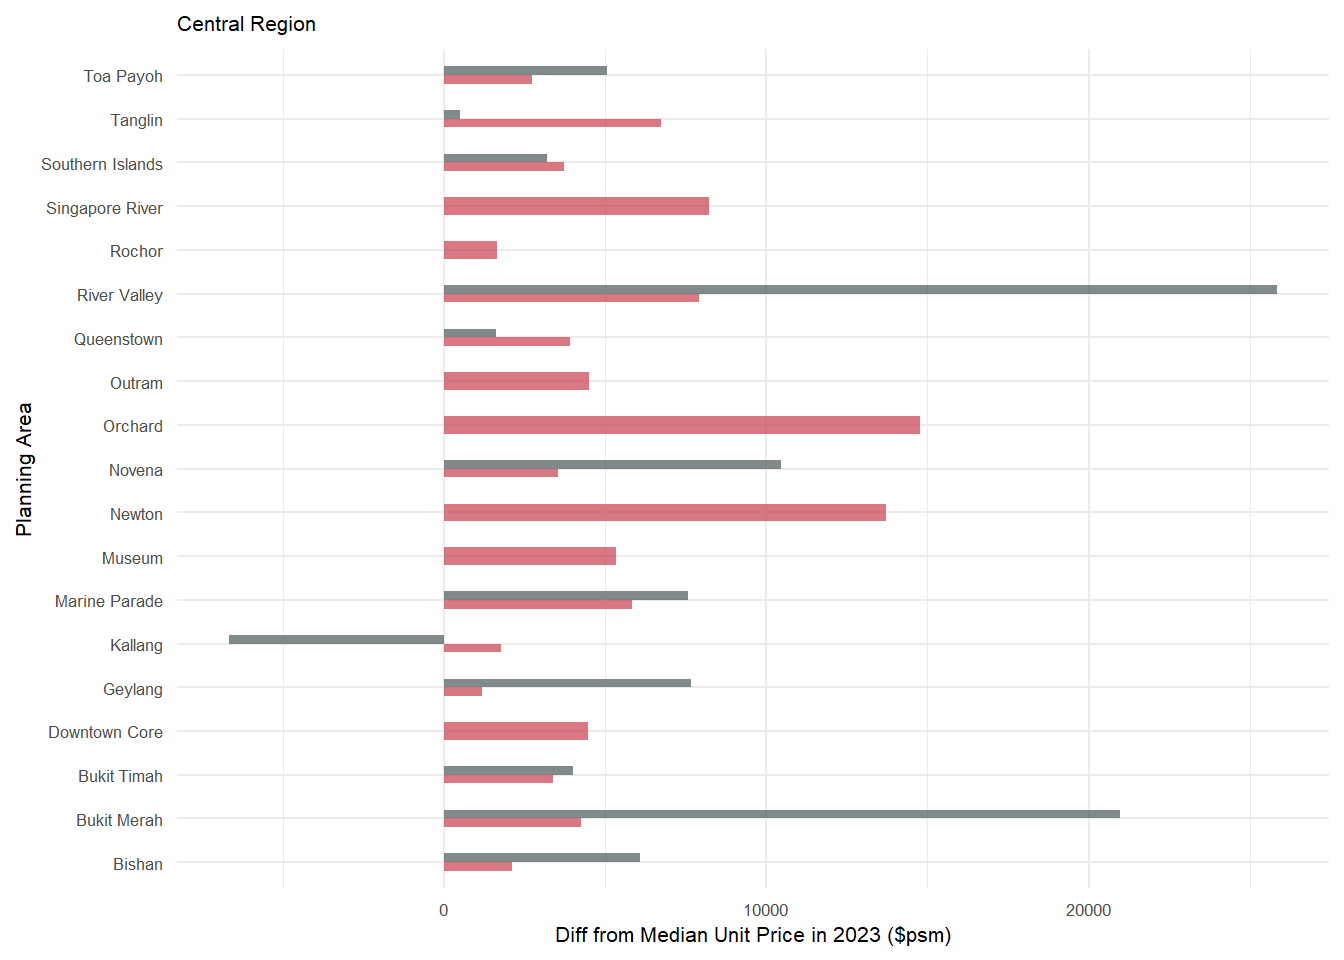
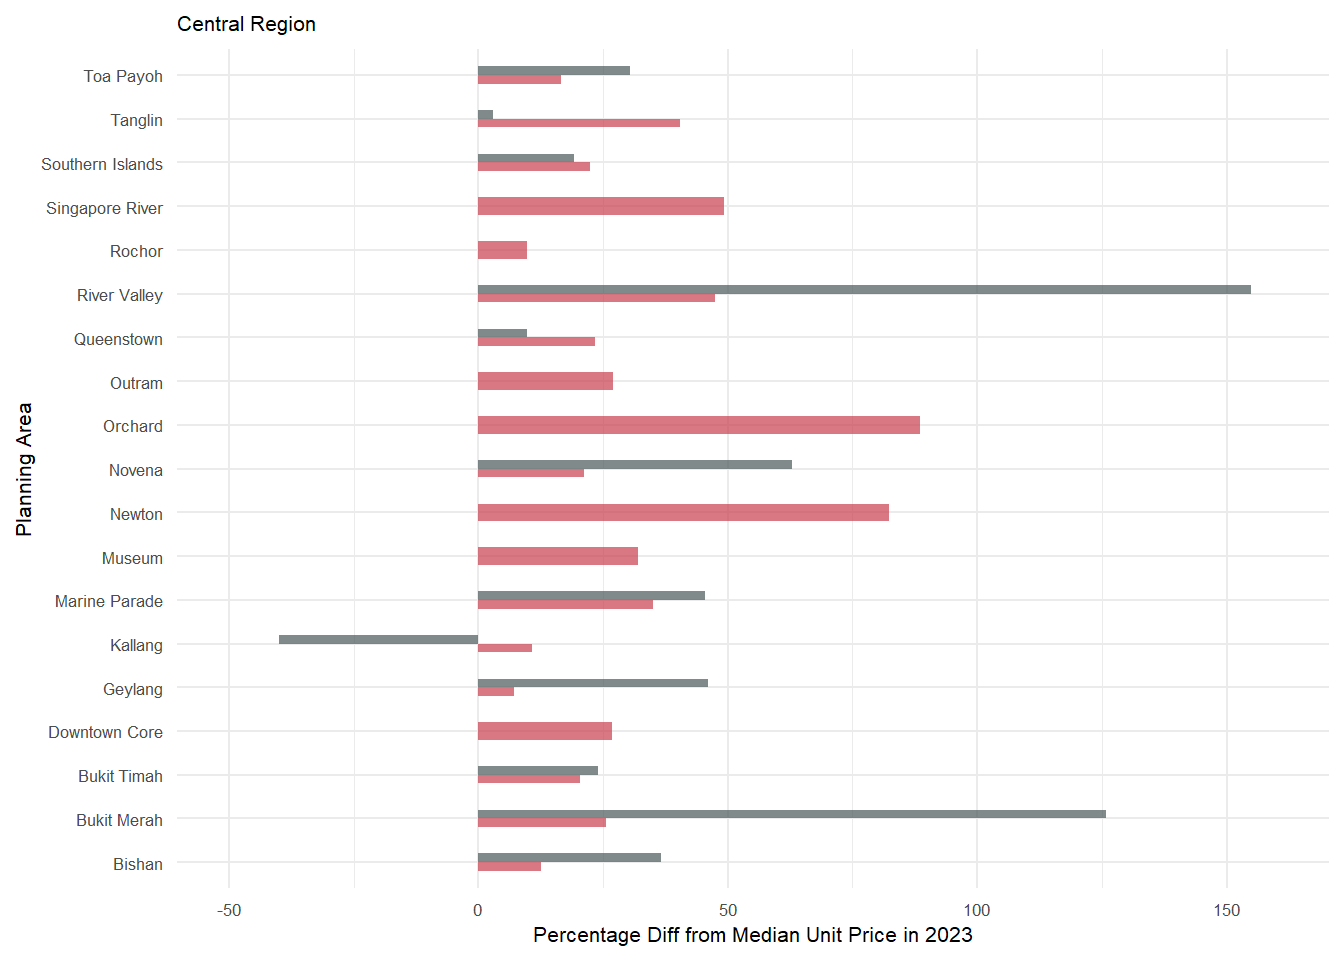
takehomeex2

diff --git a/_site/TakehomeEx/ex02/takehomeex2.html b/_site/TakehomeEx/ex02/takehomeex2.html
@@ -421,16 +421,19 @@ pre > code.sourceCode > span > a:first-child::before { text-decoration: underlin
 <span id="cb4-17"><a href="#cb4-17" aria-hidden="true" tabindex="-1"></a>         )</span>
 <span id="cb4-18"><a href="#cb4-18" aria-hidden="true" tabindex="-1"></a></span>
 <span id="cb4-19"><a href="#cb4-19" aria-hidden="true" tabindex="-1"></a>realis_subset24 <span class="ot">&lt;-</span> realis_subset24 <span class="sc">%&gt;%</span></span>
-<span id="cb4-20"><a href="#cb4-20" aria-hidden="true" tabindex="-1"></a>  <span class="fu">mutate</span>(<span class="at">diff_from_median =</span> unit_psm <span class="sc">-</span> resale23_median)</span>
-<span id="cb4-21"><a href="#cb4-21" aria-hidden="true" tabindex="-1"></a>         </span>
-<span id="cb4-22"><a href="#cb4-22" aria-hidden="true" tabindex="-1"></a></span>
-<span id="cb4-23"><a href="#cb4-23" aria-hidden="true" tabindex="-1"></a>df_unitprices <span class="ot">&lt;-</span> realis_subset24 <span class="sc">%&gt;%</span></span>
-<span id="cb4-24"><a href="#cb4-24" aria-hidden="true" tabindex="-1"></a>  <span class="fu">group_by</span>(planning_area, property_type) <span class="sc">%&gt;%</span></span>
-<span id="cb4-25"><a href="#cb4-25" aria-hidden="true" tabindex="-1"></a>  <span class="fu">summarize</span>(</span>
-<span id="cb4-26"><a href="#cb4-26" aria-hidden="true" tabindex="-1"></a>    <span class="at">average_diff_from_median =</span> <span class="fu">mean</span>(diff_from_median, <span class="at">na.rm =</span> <span class="cn">TRUE</span>),</span>
-<span id="cb4-27"><a href="#cb4-27" aria-hidden="true" tabindex="-1"></a>    <span class="at">planning_region =</span> <span class="fu">first</span>(planning_region)</span>
-<span id="cb4-28"><a href="#cb4-28" aria-hidden="true" tabindex="-1"></a>  ) <span class="sc">%&gt;%</span></span>
-<span id="cb4-29"><a href="#cb4-29" aria-hidden="true" tabindex="-1"></a>  <span class="fu">mutate</span>(<span class="at">above_median =</span> <span class="fu">ifelse</span>(average_diff_from_median <span class="sc">&gt;</span> <span class="dv">0</span>, <span class="st">"Above Median"</span>, <span class="st">"Below Median"</span>))</span></code><button title="Copy to Clipboard" class="code-copy-button"><i class="bi"></i></button></pre></div>
+<span id="cb4-20"><a href="#cb4-20" aria-hidden="true" tabindex="-1"></a>  <span class="fu">mutate</span>(</span>
+<span id="cb4-21"><a href="#cb4-21" aria-hidden="true" tabindex="-1"></a>    <span class="at">diff_from_median =</span> unit_psm <span class="sc">-</span> resale23_median, </span>
+<span id="cb4-22"><a href="#cb4-22" aria-hidden="true" tabindex="-1"></a>    <span class="at">percent_difference =</span> ((unit_psm <span class="sc">-</span> resale23_median)<span class="sc">/</span>resale23_median)<span class="sc">*</span> <span class="dv">100</span></span>
+<span id="cb4-23"><a href="#cb4-23" aria-hidden="true" tabindex="-1"></a>         )</span>
+<span id="cb4-24"><a href="#cb4-24" aria-hidden="true" tabindex="-1"></a></span>
+<span id="cb4-25"><a href="#cb4-25" aria-hidden="true" tabindex="-1"></a>df_unitprices <span class="ot">&lt;-</span> realis_subset24 <span class="sc">%&gt;%</span></span>
+<span id="cb4-26"><a href="#cb4-26" aria-hidden="true" tabindex="-1"></a>  <span class="fu">group_by</span>(planning_area, property_type) <span class="sc">%&gt;%</span></span>
+<span id="cb4-27"><a href="#cb4-27" aria-hidden="true" tabindex="-1"></a>  <span class="fu">summarize</span>(</span>
+<span id="cb4-28"><a href="#cb4-28" aria-hidden="true" tabindex="-1"></a>    <span class="at">average_diff_from_median =</span> <span class="fu">mean</span>(diff_from_median, <span class="at">na.rm =</span> <span class="cn">TRUE</span>),</span>
+<span id="cb4-29"><a href="#cb4-29" aria-hidden="true" tabindex="-1"></a>    <span class="at">average_percent_from_median =</span> <span class="fu">mean</span>(percent_difference, <span class="at">na.rm =</span> <span class="cn">TRUE</span>),</span>
+<span id="cb4-30"><a href="#cb4-30" aria-hidden="true" tabindex="-1"></a>    <span class="at">planning_region =</span> <span class="fu">first</span>(planning_region)</span>
+<span id="cb4-31"><a href="#cb4-31" aria-hidden="true" tabindex="-1"></a>  ) <span class="sc">%&gt;%</span></span>
+<span id="cb4-32"><a href="#cb4-32" aria-hidden="true" tabindex="-1"></a>  <span class="fu">mutate</span>(<span class="at">above_median =</span> <span class="fu">ifelse</span>(average_diff_from_median <span class="sc">&gt;</span> <span class="dv">0</span>, <span class="st">"Above Median"</span>, <span class="st">"Below Median"</span>))</span></code><button title="Copy to Clipboard" class="code-copy-button"><i class="bi"></i></button></pre></div>
 </details>
 </div>
 </section>
@@ -446,7 +449,7 @@ pre > code.sourceCode > span > a:first-child::before { text-decoration: underlin
 </div>
 <p>Utilising the code by the originator:</p>
 <div class="cell">
-<div class="sourceCode cell-code" id="cb6"><pre class="sourceCode r code-with-copy"><code class="sourceCode r"><span id="cb6-1"><a href="#cb6-1" aria-hidden="true" tabindex="-1"></a>plot11 <span class="ot">&lt;-</span> <span class="fu">ggplot</span>(realis_subset24_central, <span class="fu">aes</span>(<span class="at">x =</span> planning_area, <span class="at">y =</span> average_diff_from_median)) <span class="sc">+</span></span>
+<div class="sourceCode cell-code" id="cb6"><pre class="sourceCode r code-with-copy"><code class="sourceCode r"><span id="cb6-1"><a href="#cb6-1" aria-hidden="true" tabindex="-1"></a>plot11 <span class="ot">&lt;-</span> <span class="fu">ggplot</span>(realis_subset24_central, <span class="fu">aes</span>(<span class="at">x =</span> planning_area, <span class="at">y =</span> average_percent_from_median)) <span class="sc">+</span></span>
 <span id="cb6-2"><a href="#cb6-2" aria-hidden="true" tabindex="-1"></a>  <span class="fu">geom_bar</span>(<span class="at">stat =</span> <span class="st">"identity"</span>, <span class="fu">aes</span>(<span class="at">fill =</span> above_median), <span class="at">position =</span> <span class="fu">position_dodge2</span>(<span class="at">width =</span> <span class="dv">2</span>), <span class="at">width =</span> <span class="fl">0.8</span>) <span class="sc">+</span></span>
 <span id="cb6-3"><a href="#cb6-3" aria-hidden="true" tabindex="-1"></a>  <span class="fu">scale_fill_manual</span>(<span class="at">name =</span> <span class="st">"Median Price"</span>, <span class="at">labels =</span> <span class="fu">c</span>(<span class="st">"Above Median"</span>, <span class="st">"Below Median"</span>), <span class="at">values =</span> <span class="fu">c</span>(<span class="st">"below"</span> <span class="ot">=</span> <span class="st">"#C83E4D"</span>, <span class="st">"above"</span> <span class="ot">=</span> <span class="st">"#4A5859"</span>)) <span class="sc">+</span></span>
 <span id="cb6-4"><a href="#cb6-4" aria-hidden="true" tabindex="-1"></a>  <span class="fu">labs</span>(<span class="at">title =</span> <span class="st">"Unit Price Deviations by Area"</span>, <span class="at">y =</span> <span class="st">""</span>, <span class="at">subtitle =</span> <span class="st">"Private"</span>) <span class="sc">+</span></span>
@@ -474,30 +477,31 @@ Note
 </div>
 </div>
 <div class="cell">
-<div class="sourceCode cell-code" id="cb7"><pre class="sourceCode r code-with-copy"><code class="sourceCode r"><span id="cb7-1"><a href="#cb7-1" aria-hidden="true" tabindex="-1"></a>plot_cr <span class="ot">&lt;-</span> <span class="fu">ggplot</span>(realis_subset24_central, <span class="fu">aes</span>(<span class="at">x =</span> planning_area, <span class="at">y =</span> average_diff_from_median, <span class="at">fill =</span> above_median)) <span class="sc">+</span></span>
+<div class="sourceCode cell-code" id="cb7"><pre class="sourceCode r code-with-copy"><code class="sourceCode r"><span id="cb7-1"><a href="#cb7-1" aria-hidden="true" tabindex="-1"></a>plot_cr <span class="ot">&lt;-</span> <span class="fu">ggplot</span>(realis_subset24_central, <span class="fu">aes</span>(<span class="at">x =</span> planning_area, <span class="at">y =</span> average_percent_from_median, <span class="at">fill =</span> above_median)) <span class="sc">+</span></span>
 <span id="cb7-2"><a href="#cb7-2" aria-hidden="true" tabindex="-1"></a>  <span class="fu">geom_bar</span>(<span class="fu">aes</span>(<span class="at">fill =</span> property_type), <span class="at">stat =</span> <span class="st">"identity"</span>, <span class="at">position =</span> <span class="st">"dodge"</span>, <span class="at">width =</span> <span class="fl">0.4</span>, <span class="at">alpha =</span> <span class="fl">0.7</span>) <span class="sc">+</span></span>
 <span id="cb7-3"><a href="#cb7-3" aria-hidden="true" tabindex="-1"></a>  <span class="fu">scale_fill_manual</span>(<span class="at">name =</span> <span class="st">"Property Type"</span>, <span class="at">labels =</span> <span class="fu">c</span>(<span class="st">"Condominium"</span>,  <span class="st">"Landed"</span>), </span>
 <span id="cb7-4"><a href="#cb7-4" aria-hidden="true" tabindex="-1"></a>  <span class="at">values =</span> <span class="fu">c</span>(<span class="st">"Condominium"</span> <span class="ot">=</span> <span class="st">"#C83E4D"</span>, <span class="st">"Landed"</span> <span class="ot">=</span> <span class="st">"#4A5859"</span>)) <span class="sc">+</span></span>
-<span id="cb7-5"><a href="#cb7-5" aria-hidden="true" tabindex="-1"></a>  <span class="fu">labs</span>(<span class="at">x =</span> <span class="st">"Planning Area"</span>, <span class="at">y =</span> <span class="st">"Diff from Median Unit Price in 2023 ($psm)"</span>, <span class="at">subtitle =</span> <span class="st">"Central Region"</span>) <span class="sc">+</span></span>
+<span id="cb7-5"><a href="#cb7-5" aria-hidden="true" tabindex="-1"></a>  <span class="fu">labs</span>(<span class="at">x =</span> <span class="st">"Planning Area"</span>, <span class="at">y =</span> <span class="st">"Percentage Diff from Median Unit Price in 2023"</span>, <span class="at">subtitle =</span> <span class="st">"Central Region"</span>) <span class="sc">+</span></span>
 <span id="cb7-6"><a href="#cb7-6" aria-hidden="true" tabindex="-1"></a>  <span class="fu">coord_flip</span>() <span class="sc">+</span></span>
-<span id="cb7-7"><a href="#cb7-7" aria-hidden="true" tabindex="-1"></a>  <span class="fu">theme_minimal</span>() <span class="sc">+</span></span>
-<span id="cb7-8"><a href="#cb7-8" aria-hidden="true" tabindex="-1"></a>  <span class="fu">theme</span>(<span class="at">legend.position =</span> <span class="st">"none"</span>, </span>
-<span id="cb7-9"><a href="#cb7-9" aria-hidden="true" tabindex="-1"></a>        <span class="at">text =</span> <span class="fu">element_text</span>(<span class="at">size =</span> <span class="dv">8</span>)</span>
-<span id="cb7-10"><a href="#cb7-10" aria-hidden="true" tabindex="-1"></a>        )</span>
-<span id="cb7-11"><a href="#cb7-11" aria-hidden="true" tabindex="-1"></a></span>
-<span id="cb7-12"><a href="#cb7-12" aria-hidden="true" tabindex="-1"></a>plot_cr</span></code><button title="Copy to Clipboard" class="code-copy-button"><i class="bi"></i></button></pre></div>
+<span id="cb7-7"><a href="#cb7-7" aria-hidden="true" tabindex="-1"></a>  <span class="fu">ylim</span>(<span class="sc">-</span><span class="dv">50</span>, <span class="dv">160</span>) <span class="sc">+</span></span>
+<span id="cb7-8"><a href="#cb7-8" aria-hidden="true" tabindex="-1"></a>  <span class="fu">theme_minimal</span>() <span class="sc">+</span></span>
+<span id="cb7-9"><a href="#cb7-9" aria-hidden="true" tabindex="-1"></a>  <span class="fu">theme</span>(<span class="at">legend.position =</span> <span class="st">"none"</span>, </span>
+<span id="cb7-10"><a href="#cb7-10" aria-hidden="true" tabindex="-1"></a>        <span class="at">text =</span> <span class="fu">element_text</span>(<span class="at">size =</span> <span class="dv">8</span>)</span>
+<span id="cb7-11"><a href="#cb7-11" aria-hidden="true" tabindex="-1"></a>        )</span>
+<span id="cb7-12"><a href="#cb7-12" aria-hidden="true" tabindex="-1"></a></span>
+<span id="cb7-13"><a href="#cb7-13" aria-hidden="true" tabindex="-1"></a>plot_cr</span></code><button title="Copy to Clipboard" class="code-copy-button"><i class="bi"></i></button></pre></div>
 <div class="cell-output-display">
 <p><img src="takehomeex2_files/figure-html/unnamed-chunk-7-1.png" class="img-fluid" width="672"></p>
 </div>
 </div>
 <div class="cell">
-<div class="sourceCode cell-code" id="cb8"><pre class="sourceCode r code-with-copy"><code class="sourceCode r"><span id="cb8-1"><a href="#cb8-1" aria-hidden="true" tabindex="-1"></a>plot_ocr <span class="ot">&lt;-</span> <span class="fu">ggplot</span>(realis_subset24_ocr, <span class="fu">aes</span>(<span class="at">x =</span> planning_area, <span class="at">y =</span> average_diff_from_median, <span class="at">fill =</span> above_median)) <span class="sc">+</span></span>
+<div class="sourceCode cell-code" id="cb8"><pre class="sourceCode r code-with-copy"><code class="sourceCode r"><span id="cb8-1"><a href="#cb8-1" aria-hidden="true" tabindex="-1"></a>plot_ocr <span class="ot">&lt;-</span> <span class="fu">ggplot</span>(realis_subset24_ocr, <span class="fu">aes</span>(<span class="at">x =</span> planning_area, <span class="at">y =</span> average_percent_from_median, <span class="at">fill =</span> above_median)) <span class="sc">+</span></span>
 <span id="cb8-2"><a href="#cb8-2" aria-hidden="true" tabindex="-1"></a>  <span class="fu">geom_bar</span>(<span class="fu">aes</span>(<span class="at">fill =</span> property_type), <span class="at">stat =</span> <span class="st">"identity"</span>, <span class="at">position =</span> <span class="st">"dodge"</span>, <span class="at">width =</span> <span class="fl">0.4</span>, <span class="at">alpha =</span> <span class="fl">0.7</span>) <span class="sc">+</span></span>
 <span id="cb8-3"><a href="#cb8-3" aria-hidden="true" tabindex="-1"></a>  <span class="fu">scale_fill_manual</span>(<span class="at">name =</span> <span class="st">"Property Type"</span>, <span class="at">labels =</span> <span class="fu">c</span>(<span class="st">"Condominium"</span>,  <span class="st">"Executive Condominium"</span>, <span class="st">"Landed"</span>), </span>
 <span id="cb8-4"><a href="#cb8-4" aria-hidden="true" tabindex="-1"></a>  <span class="at">values =</span> <span class="fu">c</span>(<span class="st">"Condominium"</span> <span class="ot">=</span> <span class="st">"#C83E4D"</span>,<span class="st">"Executive Condominium"</span> <span class="ot">=</span> <span class="st">"orange"</span>, <span class="st">"Landed"</span> <span class="ot">=</span> <span class="st">"#4A5859"</span>)) <span class="sc">+</span></span>
-<span id="cb8-5"><a href="#cb8-5" aria-hidden="true" tabindex="-1"></a>  <span class="fu">labs</span>(<span class="at">x =</span> <span class="st">"Planning Area"</span>, <span class="at">y =</span> <span class="st">"Diff from Median Unit Price in 2023 ($psm)"</span>, <span class="at">subtitle =</span> <span class="st">"Outside Central Region"</span>)  <span class="sc">+</span></span>
+<span id="cb8-5"><a href="#cb8-5" aria-hidden="true" tabindex="-1"></a>  <span class="fu">labs</span>(<span class="at">x =</span> <span class="st">"Planning Area"</span>, <span class="at">y =</span> <span class="st">"Percentage Diff from Median Unit Price in 2023"</span>, <span class="at">subtitle =</span> <span class="st">"Outside Central Region"</span>)  <span class="sc">+</span></span>
 <span id="cb8-6"><a href="#cb8-6" aria-hidden="true" tabindex="-1"></a>  <span class="fu">coord_flip</span>() <span class="sc">+</span></span>
-<span id="cb8-7"><a href="#cb8-7" aria-hidden="true" tabindex="-1"></a>  <span class="fu">ylim</span>(<span class="sc">-</span><span class="dv">8000</span>, <span class="dv">26000</span>) <span class="sc">+</span></span>
+<span id="cb8-7"><a href="#cb8-7" aria-hidden="true" tabindex="-1"></a>  <span class="fu">ylim</span>(<span class="sc">-</span><span class="dv">50</span>, <span class="dv">160</span>) <span class="sc">+</span></span>
 <span id="cb8-8"><a href="#cb8-8" aria-hidden="true" tabindex="-1"></a>  <span class="fu">theme_minimal</span>()<span class="sc">+</span></span>
 <span id="cb8-9"><a href="#cb8-9" aria-hidden="true" tabindex="-1"></a>  <span class="fu">theme</span>(<span class="at">legend.position =</span> <span class="st">"none"</span>, </span>
 <span id="cb8-10"><a href="#cb8-10" aria-hidden="true" tabindex="-1"></a>        <span class="at">text =</span> <span class="fu">element_text</span>(<span class="at">size =</span> <span class="dv">8</span>), </span>
